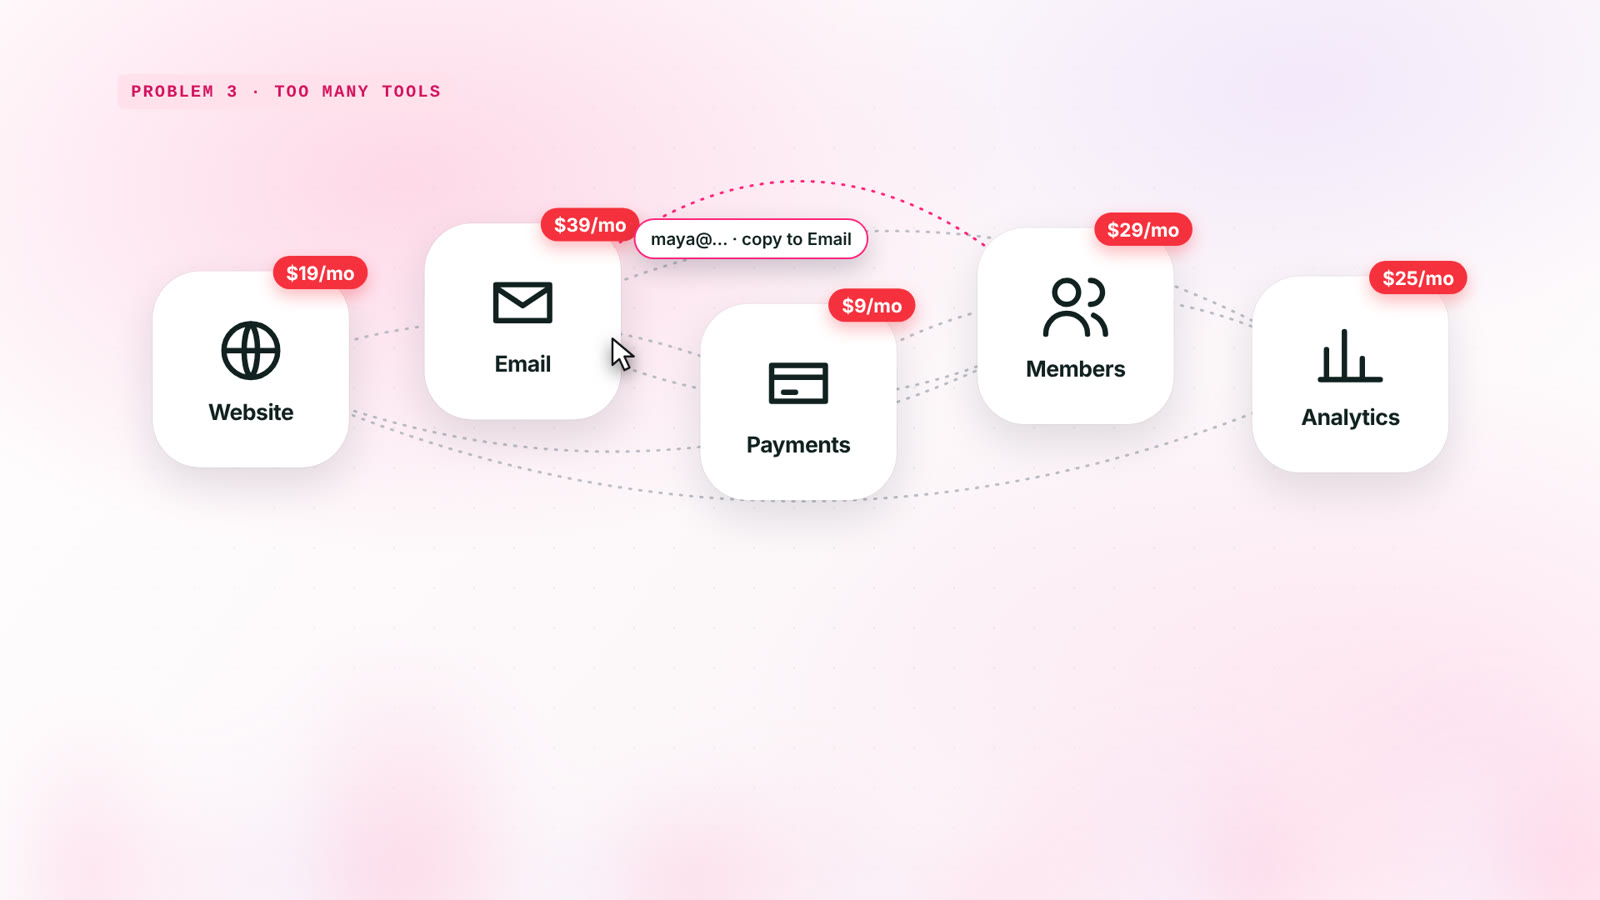
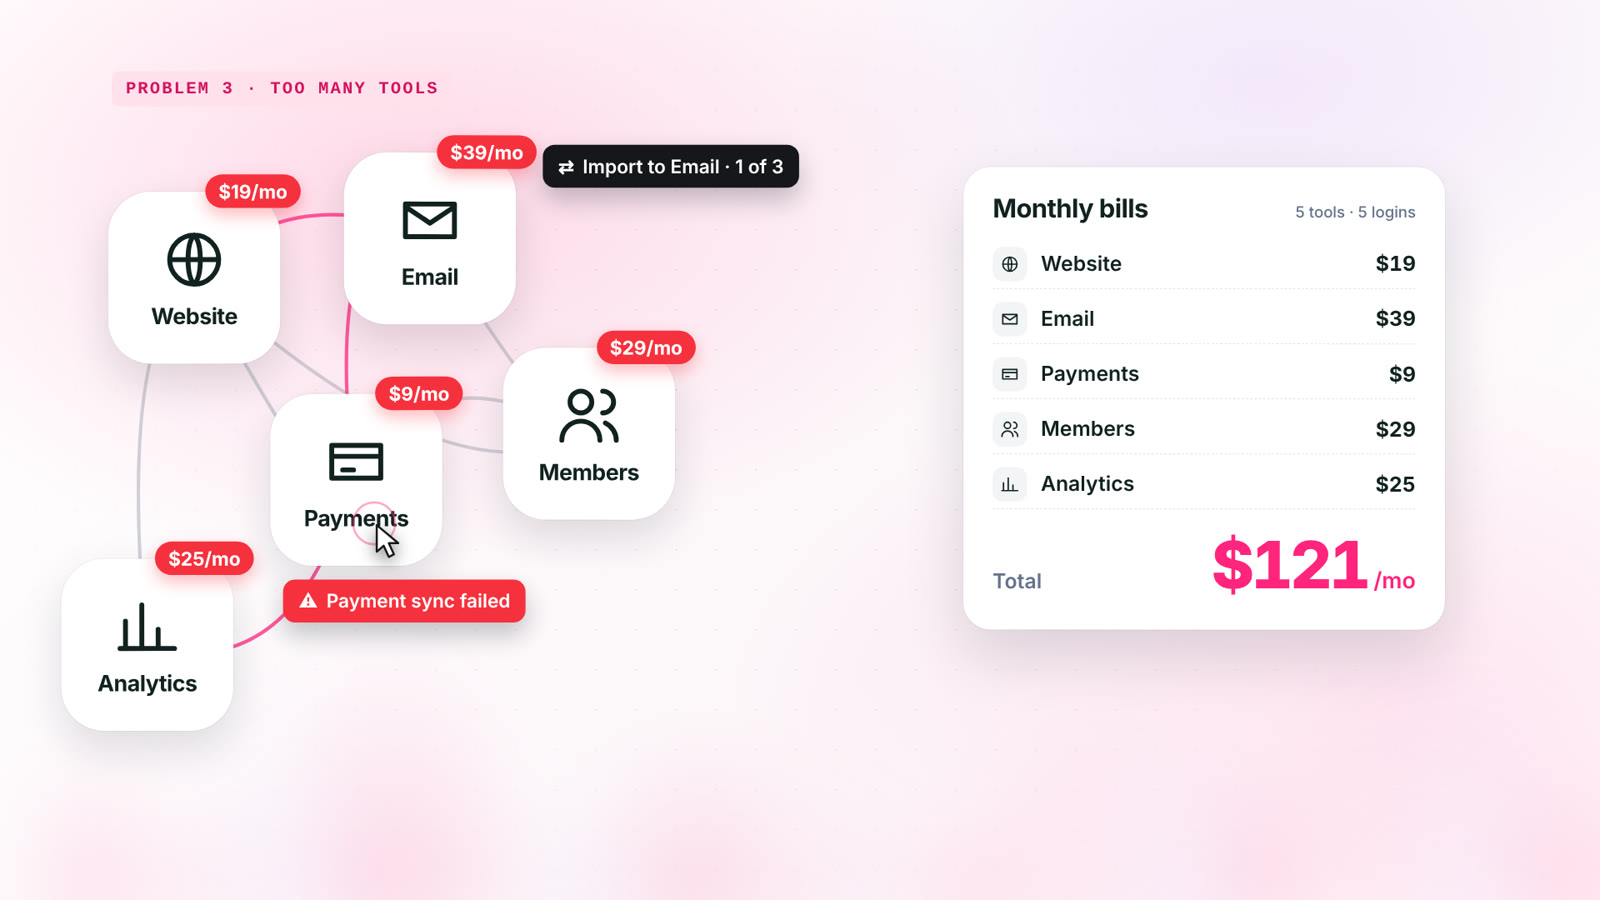
Redesign Problem 3 scene: tool cluster, monthly bills receipt, workflow toasts
Claude-Session: https://claude.ai/code/session_01Bj9t4gh9dBD7VUE8NbaYEj

diff --git a/ghost-launch/src/scenes/B3Tools.tsx b/ghost-launch/src/scenes/B3Tools.tsx
@@ -1,38 +1,47 @@
 import React from "react";
 import { AbsoluteFill, useCurrentFrame } from "remotion";
 import { COLORS, START } from "../config";
-import { drift, enter, tw } from "../anim";
+import { drift, easeOut, enter, tw } from "../anim";
 import { At, Background, Camera, sans } from "../components/Stage";
 import { Badge, Chip, Icon, MotionBlurDefs, Typer, mb, whip } from "../components/Fx";
 import { Cursor } from "../components/Cursor";
 
-// FX06 bento of tool tiles · FX07 notification price badges · FX03 typewriter
+// Problem 3 · too many tools.
+// Left: a cluster of five tool tiles with tangled links and price badges.
+// Right: a "Monthly bills" receipt that fills line by line as each badge pops, totalling $121/mo.
+// The cursor juggles data between tools, with toasts that show the manual work (and a failure).
 const TOOLS = [
-  { label: "Website", icon: "globe", price: "$19/mo" },
-  { label: "Email", icon: "mail", price: "$39/mo" },
-  { label: "Payments", icon: "card", price: "$9/mo" },
-  { label: "Members", icon: "users", price: "$29/mo" },
-  { label: "Analytics", icon: "chart", price: "$25/mo" },
+  { label: "Website", icon: "globe", price: 19, x: -700, y: -200 },
+  { label: "Email", icon: "mail", price: 39, x: -430, y: -250 },
+  { label: "Payments", icon: "card", price: 9, x: -520, y: 30 },
+  { label: "Members", icon: "users", price: 29, x: -250, y: -20 },
+  { label: "Analytics", icon: "chart", price: 25, x: -760, y: 230 },
 ];
-const X = [-640, -320, 0, 320, 640];
-const Y = [-90, -150, -60, -150, -90];
-const S = 230;
+const S = 200;
+const ROW_AT = (k: number) => 40 + k * 16;
+const LINKS: [number, number][] = [[0, 1], [1, 3], [3, 2], [2, 4], [4, 0], [0, 3], [1, 2], [2, 0]];
+const TOASTS = [
+  { f: 128, x: 40, y: -20, text: "Export members.csv", tone: "dark" },
+  { f: 160, x: -150, y: -330, text: "Import to Email · 1 of 3", tone: "dark" },
+  { f: 190, x: -460, y: 175, text: "Payment sync failed", tone: "red" },
+] as const;
 
 export const B3Tools: React.FC = () => {
   const f = useCurrentFrame();
   const inn = whip(f, 0, 20, 1400, "in");
-  const stress = tw(f, 200, 250, 0, 1);
-  // cursor drags a subscriber from Members (3) to Email (1)
-  const drag = tw(f, 118, 168, 0, 1);
+  const stress = tw(f, 196, 236, 0, 1);
+  const total = TOOLS.reduce((a, t, k) => a + t.price * tw(f, ROW_AT(k), ROW_AT(k) + 14, 0, 1, easeOut), 0);
+  const totalPop = enter(f, ROW_AT(4) + 16);
   const keys = [
-    { f: 80, x: 200, y: 260 },
-    { f: 112, x: X[3] + 10, y: Y[3] + 40 },
-    { f: 116, x: X[3] + 10, y: Y[3] + 40, click: true },
-    { f: 168, x: X[1] + 10, y: Y[1] + 40 },
-    { f: 172, x: X[1] + 10, y: Y[1] + 40, click: true },
-    { f: 200, x: X[1] + 60, y: Y[1] + 200 },
+    { f: 100, x: 40, y: 320 },
+    { f: 124, x: TOOLS[3].x + 20, y: TOOLS[3].y + 30 },
+    { f: 128, x: TOOLS[3].x + 20, y: TOOLS[3].y + 30, click: true },
+    { f: 156, x: TOOLS[1].x + 20, y: TOOLS[1].y + 30 },
+    { f: 160, x: TOOLS[1].x + 20, y: TOOLS[1].y + 30, click: true },
+    { f: 186, x: TOOLS[2].x + 20, y: TOOLS[2].y + 30 },
+    { f: 190, x: TOOLS[2].x + 20, y: TOOLS[2].y + 30, click: true },
+    { f: 230, x: TOOLS[2].x + 80, y: TOOLS[2].y + 160 },
   ];
-  const cx = X[3] + (X[1] - X[3]) * drag, cy = Y[3] + 40 - Math.sin(Math.PI * drag) * 90 + (Y[1] - Y[3]) * drag;
   return (
     <AbsoluteFill>
       <Background f={f + START.tools} warm={0} bars={0.5} />
@@ -42,40 +51,84 @@ export const B3Tools: React.FC = () => {
           <At x={-800} y={-420} style={{ transform: "translate(0,-50%) translate(-800px,-420px)" }}>
             <Chip text="PROBLEM 3 · TOO MANY TOOLS" tone="pink" />
           </At>
-          {/* tangled dotted lines */}
+
+          {/* tangled links between the tools */}
           <svg width={1920} height={1080} viewBox="-960 -540 1920 1080" style={{ position: "absolute", inset: 0 }}>
-            {[[0, 2], [1, 3], [2, 4], [0, 3], [1, 4], [0, 4], [3, 1]].map(([a, b], k) => {
-              const L = 2400;
-              const bend = (k % 2 ? 1 : -1) * (150 + k * 30);
-              return <path key={k} d={`M${X[a]} ${Y[a]} Q ${(X[a] + X[b]) / 2} ${(Y[a] + Y[b]) / 2 + bend} ${X[b]} ${Y[b]}`} fill="none" stroke={k === 6 ? COLORS.pink : "#B9BCC4"} strokeWidth={3} strokeDasharray="2 10" strokeLinecap="round" opacity={tw(f, 60 + k * 6, 100 + k * 6, 0, 1)} style={{ strokeDashoffset: -f * 0.6 }} />;
+            {LINKS.map(([a, b], k) => {
+              const A = TOOLS[a], B = TOOLS[b];
+              const bend = (k % 2 ? 1 : -1) * (90 + k * 18) * (1 + 0.15 * stress * Math.sin(f / 6 + k));
+              const mx = (A.x + B.x) / 2 + bend * 0.4, my = (A.y + B.y) / 2 + bend;
+              const L = 1400, draw = tw(f, 44 + k * 7, 84 + k * 7, 0, 1);
+              return <path key={k} d={`M${A.x} ${A.y} Q ${mx} ${my} ${B.x} ${B.y}`} fill="none" stroke={k % 3 === 0 ? COLORS.pink : "#A9ADB8"} strokeOpacity={k % 3 === 0 ? 0.75 : 0.55} strokeWidth={4} strokeLinecap="round" strokeDasharray={L} strokeDashoffset={L * (1 - draw)} />;
             })}
           </svg>
+
+          {/* tool tiles */}
           {TOOLS.map((t, k) => {
-            const p = enter(f, 10 + k * 5);
+            const p = enter(f, 8 + k * 6);
             const j = stress * 5;
+            const clicked = [128, 160, 190].some((c, i) => [3, 1, 2][i] === k && f >= c && f < c + 8) ? 0.95 : 1;
             return (
-              <At key={k} x={X[k] + drift(f, 5, 240, k) + j * Math.sin(f * 0.9 + k)} y={Y[k] + (1 - p) * 120 + drift(f, 5, 300, k + 2) + j * Math.cos(f * 1.1 + k)}>
-                <div style={{ opacity: Math.min(1, p * 1.4), transform: `scale(${0.7 + 0.3 * p}) rotate(${stress * (k % 2 ? 3 : -3)}deg)`, position: "relative" }}>
-                  <div style={{ width: S, height: S, borderRadius: 56, background: "#fff", boxShadow: "0 20px 50px rgba(17,24,39,.12), 0 0 0 1px rgba(17,24,39,.05)", display: "grid", placeItems: "center", alignContent: "center", gap: 14 }}>
-                    <Icon name={t.icon} size={84} />
+              <At key={k} x={t.x + drift(f, 5, 240, k) + j * Math.sin(f * 0.9 + k)} y={t.y + (1 - p) * 120 + drift(f, 5, 300, k + 2) + j * Math.cos(f * 1.1 + k)}>
+                <div style={{ opacity: Math.min(1, p * 1.4), transform: `scale(${(0.7 + 0.3 * p) * clicked}) rotate(${stress * (k % 2 ? 3 : -3)}deg)`, position: "relative" }}>
+                  <div style={{ width: S, height: S, borderRadius: 50, background: "#fff", boxShadow: "0 22px 50px rgba(17,24,39,.13), 0 0 0 1px rgba(17,24,39,.05)", display: "grid", placeItems: "center", alignContent: "center", gap: 12 }}>
+                    <Icon name={t.icon} size={76} />
                     <div style={sans(700, 26, { color: COLORS.text, letterSpacing: "-0.02em" })}>{t.label}</div>
                   </div>
-                  <div style={{ position: "absolute", right: -22, top: -18, transform: `scale(${Math.min(1.12, enter(f, 40 + k * 8))})` }}>
-                    <Badge text={t.price} color="#F5313D" size={22} />
+                  <div style={{ position: "absolute", right: -24, top: -20, transform: `scale(${Math.min(1.12, enter(f, ROW_AT(k)))})` }}>
+                    <Badge text={`$${t.price}/mo`} color="#F5313D" size={22} />
                   </div>
                 </div>
               </At>
             );
           })}
-          {/* dragged subscriber row */}
-          {f > 116 && f < 182 && (
-            <At x={cx + 90} y={cy - 70}>
-              <div style={{ ...sans(600, 20, { color: COLORS.text }), background: "#fff", borderRadius: 999, padding: "10px 18px", boxShadow: "0 12px 30px rgba(17,24,39,.2)", border: `2px solid ${COLORS.pink}`, whiteSpace: "nowrap" }}>maya@… · copy to Email</div>
-            </At>
-          )}
-          <Cursor f={f} keys={keys} opacity={tw(f, 80, 90, 0, 1) * tw(f, 200, 212, 1, 0)} />
-          <At y={290}>
-            <Typer f={f} start={176} perChar={2} size={80} caretColor={COLORS.pink} lines={[[{ t: "Five tools. Five bills. " }, { t: "$121", c: COLORS.pink }, { t: " a month." }]]} />
+
+          {/* toasts that show the manual work */}
+          {TOASTS.map((t, k) => {
+            const p = enter(f, t.f + 2);
+            const gone = tw(f, t.f + 40, t.f + 52, 0, 1);
+            if (f < t.f) return null;
+            return (
+              <At key={k} x={t.x} y={t.y}>
+                <div style={{ display: "flex", alignItems: "center", gap: 10, ...sans(600, 22, { color: "#fff" }), background: t.tone === "red" ? "#F5313D" : COLORS.paperInk, borderRadius: 14, padding: "12px 18px", boxShadow: "0 14px 30px rgba(17,24,39,.25)", whiteSpace: "nowrap", opacity: Math.min(1, p * 1.5) * (t.tone === "red" ? 1 : 1 - gone), transform: `translateY(${(1 - p) * 16}px) scale(${0.9 + 0.1 * Math.min(1, p)})` }}>
+                  <span>{t.tone === "red" ? "⚠" : "⇄"}</span>{t.text}
+                </div>
+              </At>
+            );
+          })}
+
+          {/* monthly bills receipt */}
+          <At x={470} y={-60}>
+            <div style={{ width: 560, background: "#fff", borderRadius: 32, padding: "30px 34px", boxShadow: "0 30px 70px rgba(17,24,39,.14), 0 0 0 1px rgba(17,24,39,.05)", opacity: Math.min(1, enter(f, 26) * 1.4), transform: `translateY(${(1 - Math.min(1, enter(f, 26))) * 40}px) rotate(${stress * 1.2}deg)` }}>
+              <div style={{ display: "flex", justifyContent: "space-between", alignItems: "baseline" }}>
+                <div style={sans(700, 30, { color: COLORS.text, letterSpacing: "-0.02em" })}>Monthly bills</div>
+                <div style={sans(500, 18, { color: COLORS.textMute })}>5 tools · 5 logins</div>
+              </div>
+              <div style={{ marginTop: 18, display: "grid", gap: 6 }}>
+                {TOOLS.map((t, k) => {
+                  const p = enter(f, ROW_AT(k));
+                  return (
+                    <div key={k} style={{ display: "flex", alignItems: "center", gap: 16, height: 58, borderBottom: "1.5px dashed #E4E5E9", opacity: Math.min(1, p * 1.5), transform: `translateX(${(1 - Math.min(1, p)) * -60}px)` }}>
+                      <div style={{ width: 40, height: 40, borderRadius: 12, background: "#F3F4F6", display: "grid", placeItems: "center" }}><Icon name={t.icon} size={22} /></div>
+                      <div style={sans(600, 24, { color: COLORS.text, flex: 1 })}>{t.label}</div>
+                      <div style={sans(700, 24, { color: COLORS.text, fontVariantNumeric: "tabular-nums" })}>${t.price}</div>
+                    </div>
+                  );
+                })}
+              </div>
+              <div style={{ marginTop: 18, display: "flex", justifyContent: "space-between", alignItems: "baseline" }}>
+                <div style={sans(600, 24, { color: COLORS.textMute })}>Total</div>
+                <div style={{ transform: `scale(${1 + 0.06 * Math.sin(Math.PI * Math.min(1, totalPop))})`, transformOrigin: "right center" }}>
+                  <span style={sans(800, 76, { color: COLORS.pink, letterSpacing: "-0.05em", fontVariantNumeric: "tabular-nums" })}>${Math.round(total)}</span>
+                  <span style={sans(600, 26, { color: COLORS.pink })}> /mo</span>
+                </div>
+              </div>
+            </div>
+          </At>
+
+          <Cursor f={f} keys={keys} opacity={tw(f, 100, 110, 0, 1) * tw(f, 226, 238, 1, 0)} />
+          <At y={385}>
+            <Typer f={f} start={200} perChar={1.6} size={76} caretColor={COLORS.pink} lines={[[{ t: "Five tools. Five bills. " }, { t: "$121", c: COLORS.pink }, { t: " a month." }]]} />
           </At>
         </Camera>
       </AbsoluteFill>
